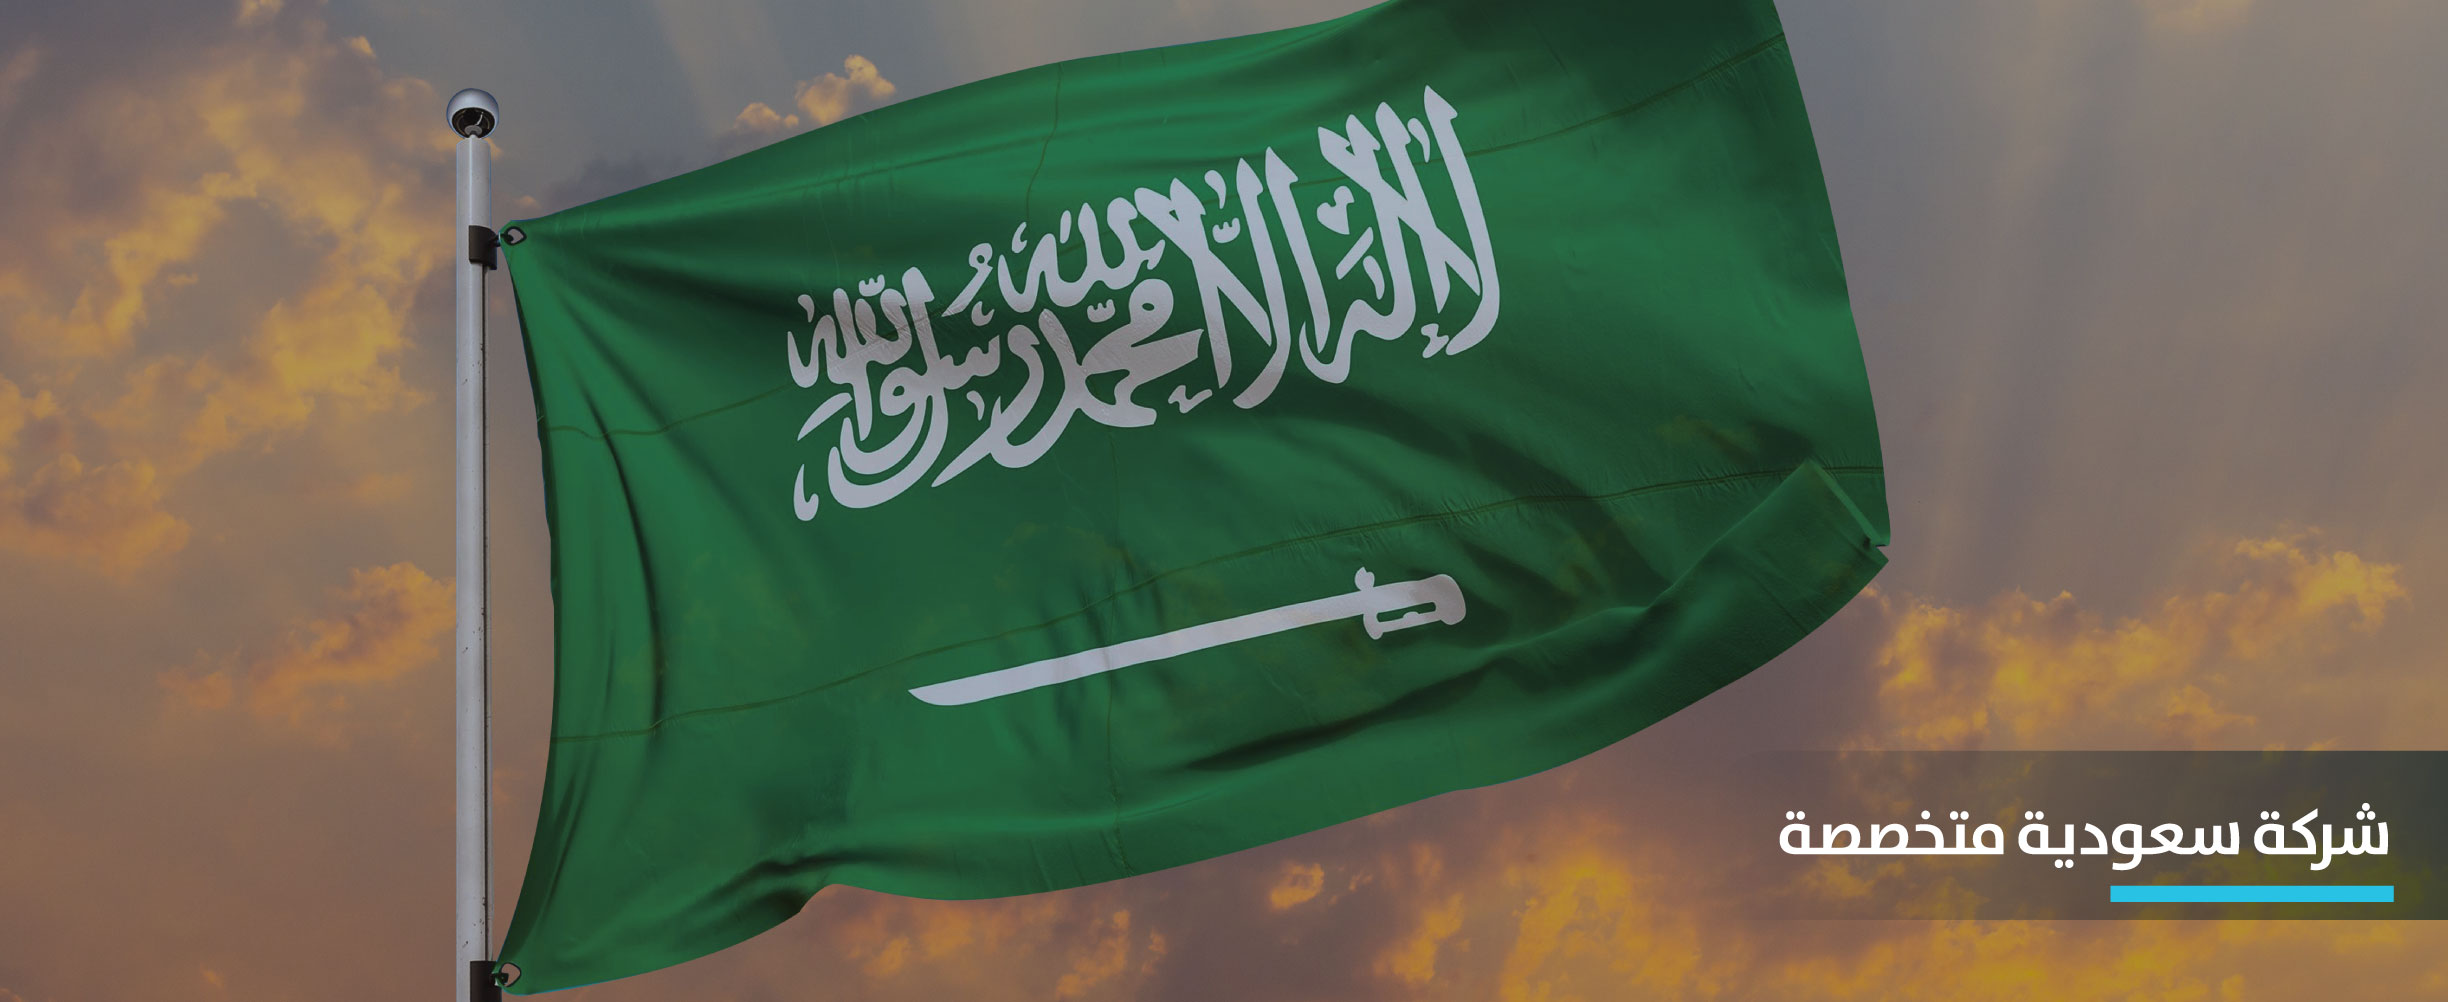
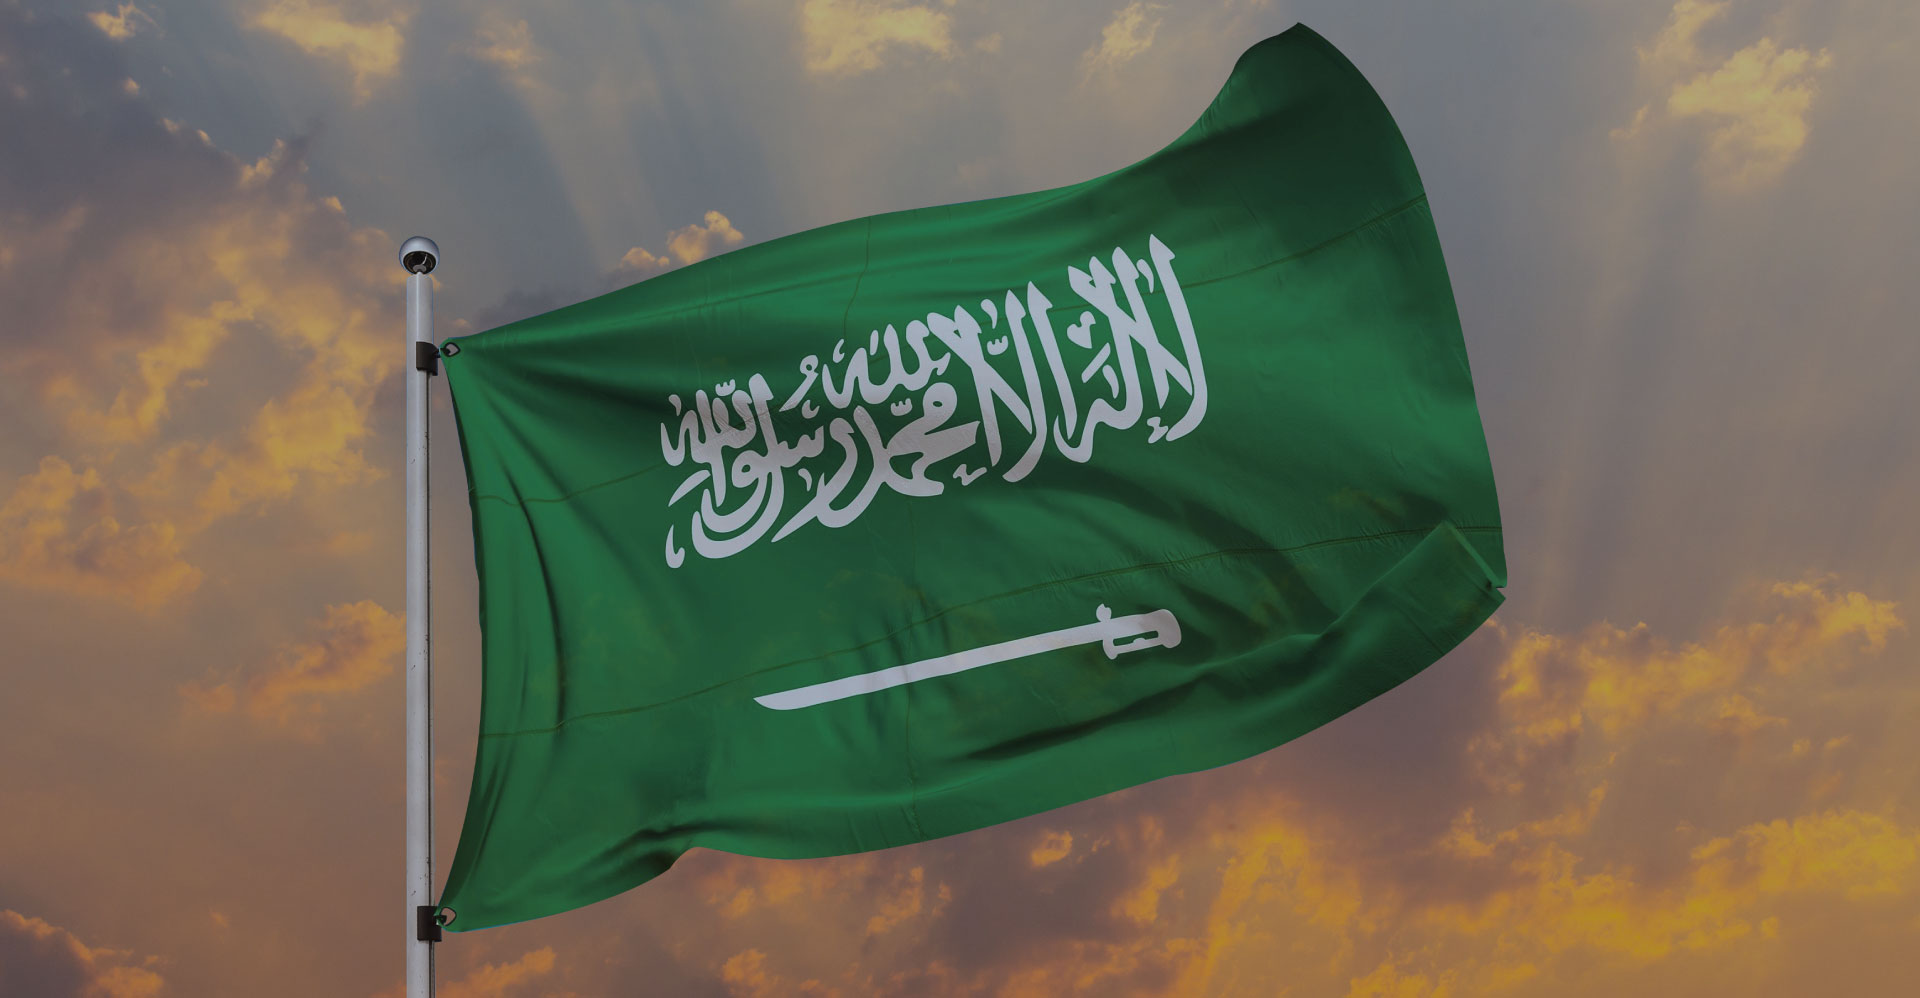
there?

diff --git a/index.html b/index.html
@@ -22,8 +22,8 @@
   <link href="assets/vendor/bootstrap/css/bootstrap.min.css" rel="stylesheet">
   <link href="assets/vendor/bootstrap-icons/bootstrap-icons.css" rel="stylesheet">
   <link href="assets/vendor/boxicons/css/boxicons.min.css" rel="stylesheet">
-  <link href="assets/vendor/glightbox/css/glightbox.min.css" rel="stylesheet">
-  <link href="assets/vendor/swiper/swiper-bundle.min.css" rel="stylesheet">
+  <!-- <link href="assets/vendor/glightbox/css/glightbox.min.css" rel="stylesheet"> -->
+  <!-- <link href="assets/vendor/swiper/swiper-bundle.min.css" rel="stylesheet"> -->
 
   <!-- Template Main CSS File -->
   <link href="assets/css/style.css" rel="stylesheet">
@@ -59,7 +59,7 @@
     <div class="container d-flex justify-content-between">
 
       <div class="logo">
-        <h1><a href="index.html"><img draggable="false" src="assets/img/logo-1.png" /></a></h1>
+        <h1><a href="index.html"><img class="pulse" draggable="false" src="assets/img/logo-1.png" /></a></h1>
         <!-- Uncomment below if you prefer to use an image logo -->
         <!-- <a href="index.html"><img src="assets/img/logo.png" alt="" class="img-fluid"></a>-->
       </div>
@@ -128,10 +128,10 @@
 
         <div class="d-flex align-items-center row no-gutters">
           <div class="col-lg-6 p-5">
-            <img draggable="false" src="assets/img/banner-2-text.png" class="img-fluid" alt="">
+            <img draggable="false" src="assets/img/banner-2-text.png" class="img-fluid pulse" alt=""/>
           </div>
           <div class="col-lg-6">
-            <img draggable="false" src="assets/img/banner-2.png" class="img-fluid" alt="">
+            <img draggable="false" src="assets/img/banner-2.png" class="img-fluid pulse px-3 px-md-0" alt="">
           </div>
         </div>
 
@@ -162,23 +162,23 @@
         <div class="row py-lg-5 py-3 px-5 px-sm-0 justify-content-center" style="gap: 20px;" data-aos="fade-up">
 
           <div class="col-lg-2 col-md-4 col-sm-5 col-9 p-lg-0 py-3 content-item border-0">
-            <img draggable="false" src="assets/img/values/flexibility.png" class="img-fluid"/>
+            <img draggable="false" src="assets/img/values/flexibility.png" class="img-fluid pulse"/>
           </div>
 
           <div class="col-lg-2 col-md-4 col-sm-5 col-9 p-lg-0 py-3 content-item border-0">
-            <img draggable="false" src="assets/img/values/trust.png" class="img-fluid"/>
+            <img draggable="false" src="assets/img/values/trust.png" class="img-fluid pulse"/>
           </div>
 
           <div class="col-lg-2 col-md-4 col-sm-5 col-9 p-lg-0 py-3 content-item border-0">
-            <img draggable="false" src="assets/img/values/excellence.png" class="img-fluid"/>
+            <img draggable="false" src="assets/img/values/excellence.png" class="img-fluid pulse"/>
           </div>
 
           <div class="col-lg-2 col-md-4 col-sm-5 col-9 p-lg-0 py-3 content-item border-0">
-            <img draggable="false" src="assets/img/values/professionalism.png" class="img-fluid"/>
+            <img draggable="false" src="assets/img/values/professionalism.png" class="img-fluid pulse"/>
           </div>
 
           <div class="col-lg-2 col-md-4 col-sm-5 col-9 p-lg-0 py-3 content-item border-0">
-            <img draggable="false" src="assets/img/values/creativity.png" class="img-fluid"/>
+            <img draggable="false" src="assets/img/values/creativity.png" class="img-fluid pulse"/>
           </div>
         </div>
 
@@ -197,9 +197,31 @@
     </section><!-- End About Lists Section -->
 
     <!-- ======= Banner 4 Section ======= -->
-    <div class="banner-4 container-fluid p-0 pt-3 mt-5 m-0" data-aos="fade-up">
+    <!-- <div class="banner-4 container-fluid p-0 pt-3 mt-5 m-0" data-aos="fade-up">
       <img draggable="false" src="assets/img/banner-4.jpg" width="100%" class="img-fluid"/>
+    </div> -->
+  <section id="hero" class="saudiflag p-0 mt-5 m-0">
+    <div class="hero-container">
+      <!-- Slide 1 -->
+      <div class="carousel-item saudiflag active" style="background-image: url('assets/img/banner-4.jpg'); background-position: top center;">
+        <div class="carousel-container justify-content-start align-items-end p-0 m-0">
+          <div class="carousel-content saudiflag container text-end p-0 m-0 mb-4">
+            <!-- <img draggable="false" src="assets/img/banner-horizontal.png" id="banner-horizontal"/> -->
+            <svg class="saudiflag-specialized" height="200" width="600">
+              <image class="saudiflag-specialized" xlink:href="assets/img/specialized.svg" src="assets/img/specialized.svg" height="200" width="600"/>
+            </svg>
+            <!-- <img draggable="false" src="assets/img/banner-vertical.png" id="banner-vertical"/> -->
+            <!-- <h1 id="banner-vertical">
+            نقدم الاستشارات والحلول الإدارية
+            </h1> -->
+            <!-- <h2 class="animate__animated animate__fadeInDown">لبنات لتقديم الحلول الإستشاريّة</h2> -->
+            <!-- <p class="animate__animated animate__fadeInUp">Ut velit est quam dolor ad a aliquid qui aliquid. Sequi ea ut et est quaerat sequi nihil ut aliquam. Occaecati alias dolorem mollitia ut. Similique ea voluptatem. Esse doloremque accusamus repellendus deleniti vel. Minus et tempore modi architecto.</p> -->
+            <!-- <a href="#about" class="btn-get-started animate__animated animate__fadeInUp scrollto">Read More</a> -->
+          </div>
+        </div>
+      </div>
     </div>
+  </section><!-- End Hero -->
 
 
     <!-- ======= Counts Section ======= -->
@@ -257,48 +279,48 @@
         <div class="d-flex align-items-center text-center text-lg-end row no-gutters">
           <div class="col-lg-6 pt-lg-5">
             <a class="anchor" id="consultancy-services"></a>
-            <img draggable="false" src="assets/img/services/h1.png" style="max-height: 80px;" class="img-fluid" alt="">
+            <img draggable="false" src="assets/img/services/h1.png" style="max-height: 80px;" class="img-fluid pulse" alt="">
             <h1 class="pt-5">نقدم خدمات التحليل والدراسات والأبحاث للقطاع الحكومي والخاص والقطاع غير الربحي </h1>
           </div>
           <div class="col-lg-6 pt-lg-0 pt-4">
-            <img draggable="false" src="assets/img/services/banner-1.png" class="img-fluid" alt="">
+            <img draggable="false" src="assets/img/services/banner-1.png" class="img-fluid pulse" alt="">
           </div>
         </div>
 
         <div class="col-lg-6 pt-5 text-center text-lg-end">
           <a class="anchor" id="planning"></a>
-          <img draggable="false" src="assets/img/services/h2.png" style="max-height: 80px;" class="img-fluid" alt="">
+          <img draggable="false" src="assets/img/services/h2.png" style="max-height: 80px;" class="img-fluid pulse" alt="">
           <h1 class="pt-5">من خلال:</h1>
         </div>
 
         <div class="row py-lg-5 py-3 px-5 justify-content-center text-center" style="gap: 30px;" data-aos="fade-up">
           <div class="col-lg-3 col-md-4 col-9 p-lg-0 py-0 content-item border-0">
-            <img draggable="false" src="assets/img/services/one.png" style="max-width: 180px;" class="img-fluid"/>
+            <img draggable="false" src="assets/img/services/one.png" style="max-width: 180px;" class="img-fluid pulse"/>
             <h4 class="lh-base py-3">تحسين الأداء المؤسسي</h4>
           </div>
 
           <div class="col-lg-3 col-md-4 col-9 p-lg-0 py-0 content-item border-0">
-            <img draggable="false" src="assets/img/services/two.png" style="max-width: 180px;" class="img-fluid"/>
+            <img draggable="false" src="assets/img/services/two.png" style="max-width: 180px;" class="img-fluid pulse"/>
             <h4 class="lh-base py-3">إدارة التغيير</h4>
           </div>
 
           <div class="col-lg-3 col-md-4 col-9 p-lg-0 py-0 content-item border-0">
-            <img draggable="false" src="assets/img/services/three.png" style="max-width: 180px;" class="img-fluid"/>
+            <img draggable="false" src="assets/img/services/three.png" style="max-width: 180px;" class="img-fluid pulse"/>
             <h4 class="lh-base py-3">إدارة المحافظ<br>والبرامج والمشاريع</h4>
           </div>
 
           <div class="col-lg-3 col-md-4 col-9 p-lg-0 py-0 content-item border-0">
-            <img draggable="false" src="assets/img/services/four.png" style="max-width: 180px;" class="img-fluid"/>
+            <img draggable="false" src="assets/img/services/four.png" style="max-width: 180px;" class="img-fluid pulse"/>
             <h4 class="lh-base py-3">الحوكمة وتصميم وتطوير سياسات وإجراءات العمل</h4>
           </div>
 
           <div class="col-lg-3 col-md-4 col-9 p-lg-0 py-0 content-item border-0">
-            <img draggable="false" src="assets/img/services/five.png" style="max-width: 180px;" class="img-fluid"/>
+            <img draggable="false" src="assets/img/services/five.png" style="max-width: 180px;" class="img-fluid pulse"/>
             <h4 class="lh-base py-3">التخطيط الاستراتيجي والتشغيلي وإجراءات العمل</h4>
           </div>
 
           <div class="col-lg-3 col-md-4 col-9 p-lg-0 py-0 content-item border-0">
-            <img draggable="false" src="assets/img/services/six.png" style="max-width: 180px;" class="img-fluid"/>
+            <img draggable="false" src="assets/img/services/six.png" style="max-width: 180px;" class="img-fluid pulse"/>
             <h4 class="lh-base py-3">تنمية القدارت البشرية واكتشاف المواهب وتقييم القدرات</h4>
           </div>
         </div>
@@ -335,7 +357,7 @@
           <div class="col-lg-3 d-flex" data-aos="fade-up" data-aos-delay="200">
             <div class="info-box ">
               <i class="bx bx-phone-call"></i>
-              <h3>إتّصل بنا</h3>
+              <h3>اتّصل بنا</h3>
               <span style="direction: ltr; display: inline-block;">+966 55 052 6201</span>
             </div>
           </div>
@@ -377,7 +399,7 @@
       <div class="container">
         <div class="row">
           <div class="col-lg-3 col-md-6 footer-info text-center text-xs-end">
-            <img draggable="false" src="assets/img/logo-no-text.png" style="max-width: 100px;" class="img-fluid"/>
+            <img draggable="false" src="assets/img/logo-no-text.png" style="max-width: 100px;" class="img-fluid pulse"/>
             <p class="pt-3">شركة لبنات الأعمال التجارية</p>
             <p class="">س.ت 1010840957</p>
           </div>
@@ -438,10 +460,10 @@
   <script src="assets/vendor/purecounter/purecounter_vanilla.js"></script>
   <script src="assets/vendor/aos/aos.js"></script>
   <script src="assets/vendor/bootstrap/js/bootstrap.bundle.min.js"></script>
-  <script src="assets/vendor/glightbox/js/glightbox.min.js"></script>
+  <!-- <script src="assets/vendor/glightbox/js/glightbox.min.js"></script> -->
   <script src="assets/vendor/isotope-layout/isotope.pkgd.min.js"></script>
-  <script src="assets/vendor/swiper/swiper-bundle.min.js"></script>
-  <script src="assets/vendor/php-email-form/validate.js"></script>
+  <!-- <script src="assets/vendor/swiper/swiper-bundle.min.js"></script> -->
+  <!-- <script src="assets/vendor/php-email-form/validate.js"></script> -->
 
   <!-- Template Main JS File -->
   <script src="assets/js/main.js"></script>

diff --git a/assets/js/main.js b/assets/js/main.js
@@ -204,25 +204,25 @@
   /**
    * Initiate portfolio lightbox 
    */
-  const portfolioLightbox = GLightbox({
-    selector: '.portfolio-lightbox'
-  });
+  // const portfolioLightbox = GLightbox({
+  //   selector: '.portfolio-lightbox'
+  // });
 
   /**
    * Portfolio details slider
    */
-  new Swiper('.portfolio-details-slider', {
-    speed: 400,
-    autoplay: {
-      delay: 5000,
-      disableOnInteraction: false
-    },
-    pagination: {
-      el: '.swiper-pagination',
-      type: 'bullets',
-      clickable: true
-    }
-  });
+  // new Swiper('.portfolio-details-slider', {
+  //   speed: 400,
+  //   autoplay: {
+  //     delay: 5000,
+  //     disableOnInteraction: false
+  //   },
+  //   pagination: {
+  //     el: '.swiper-pagination',
+  //     type: 'bullets',
+  //     clickable: true
+  //   }
+  // });
 
   /**
    * Animation on scroll

diff --git a/assets/css/style.css b/assets/css/style.css
@@ -45,6 +45,10 @@ h6,
   font-weight: lighter;
 }
 
+img.pulse:hover {
+    -webkit-animation: pulse 1.5s;
+    animation: pulse 1.5s;
+}
 /*--------------------------------------------------------------
 # Back to top button
 --------------------------------------------------------------*/
@@ -565,6 +569,20 @@ h6,
 
   #hero h2 {
     font-size: 28px;
+  }
+
+  section.saudiflag {
+    height: 363px !important;
+  }
+
+  .saudiflag-specialized {
+    height: 100px;
+    width: 300px;
+  }
+
+  #hero .carousel-item.saudiflag {
+    height: 363px !important;
+    background-size: 768px;
   }
 }
 
